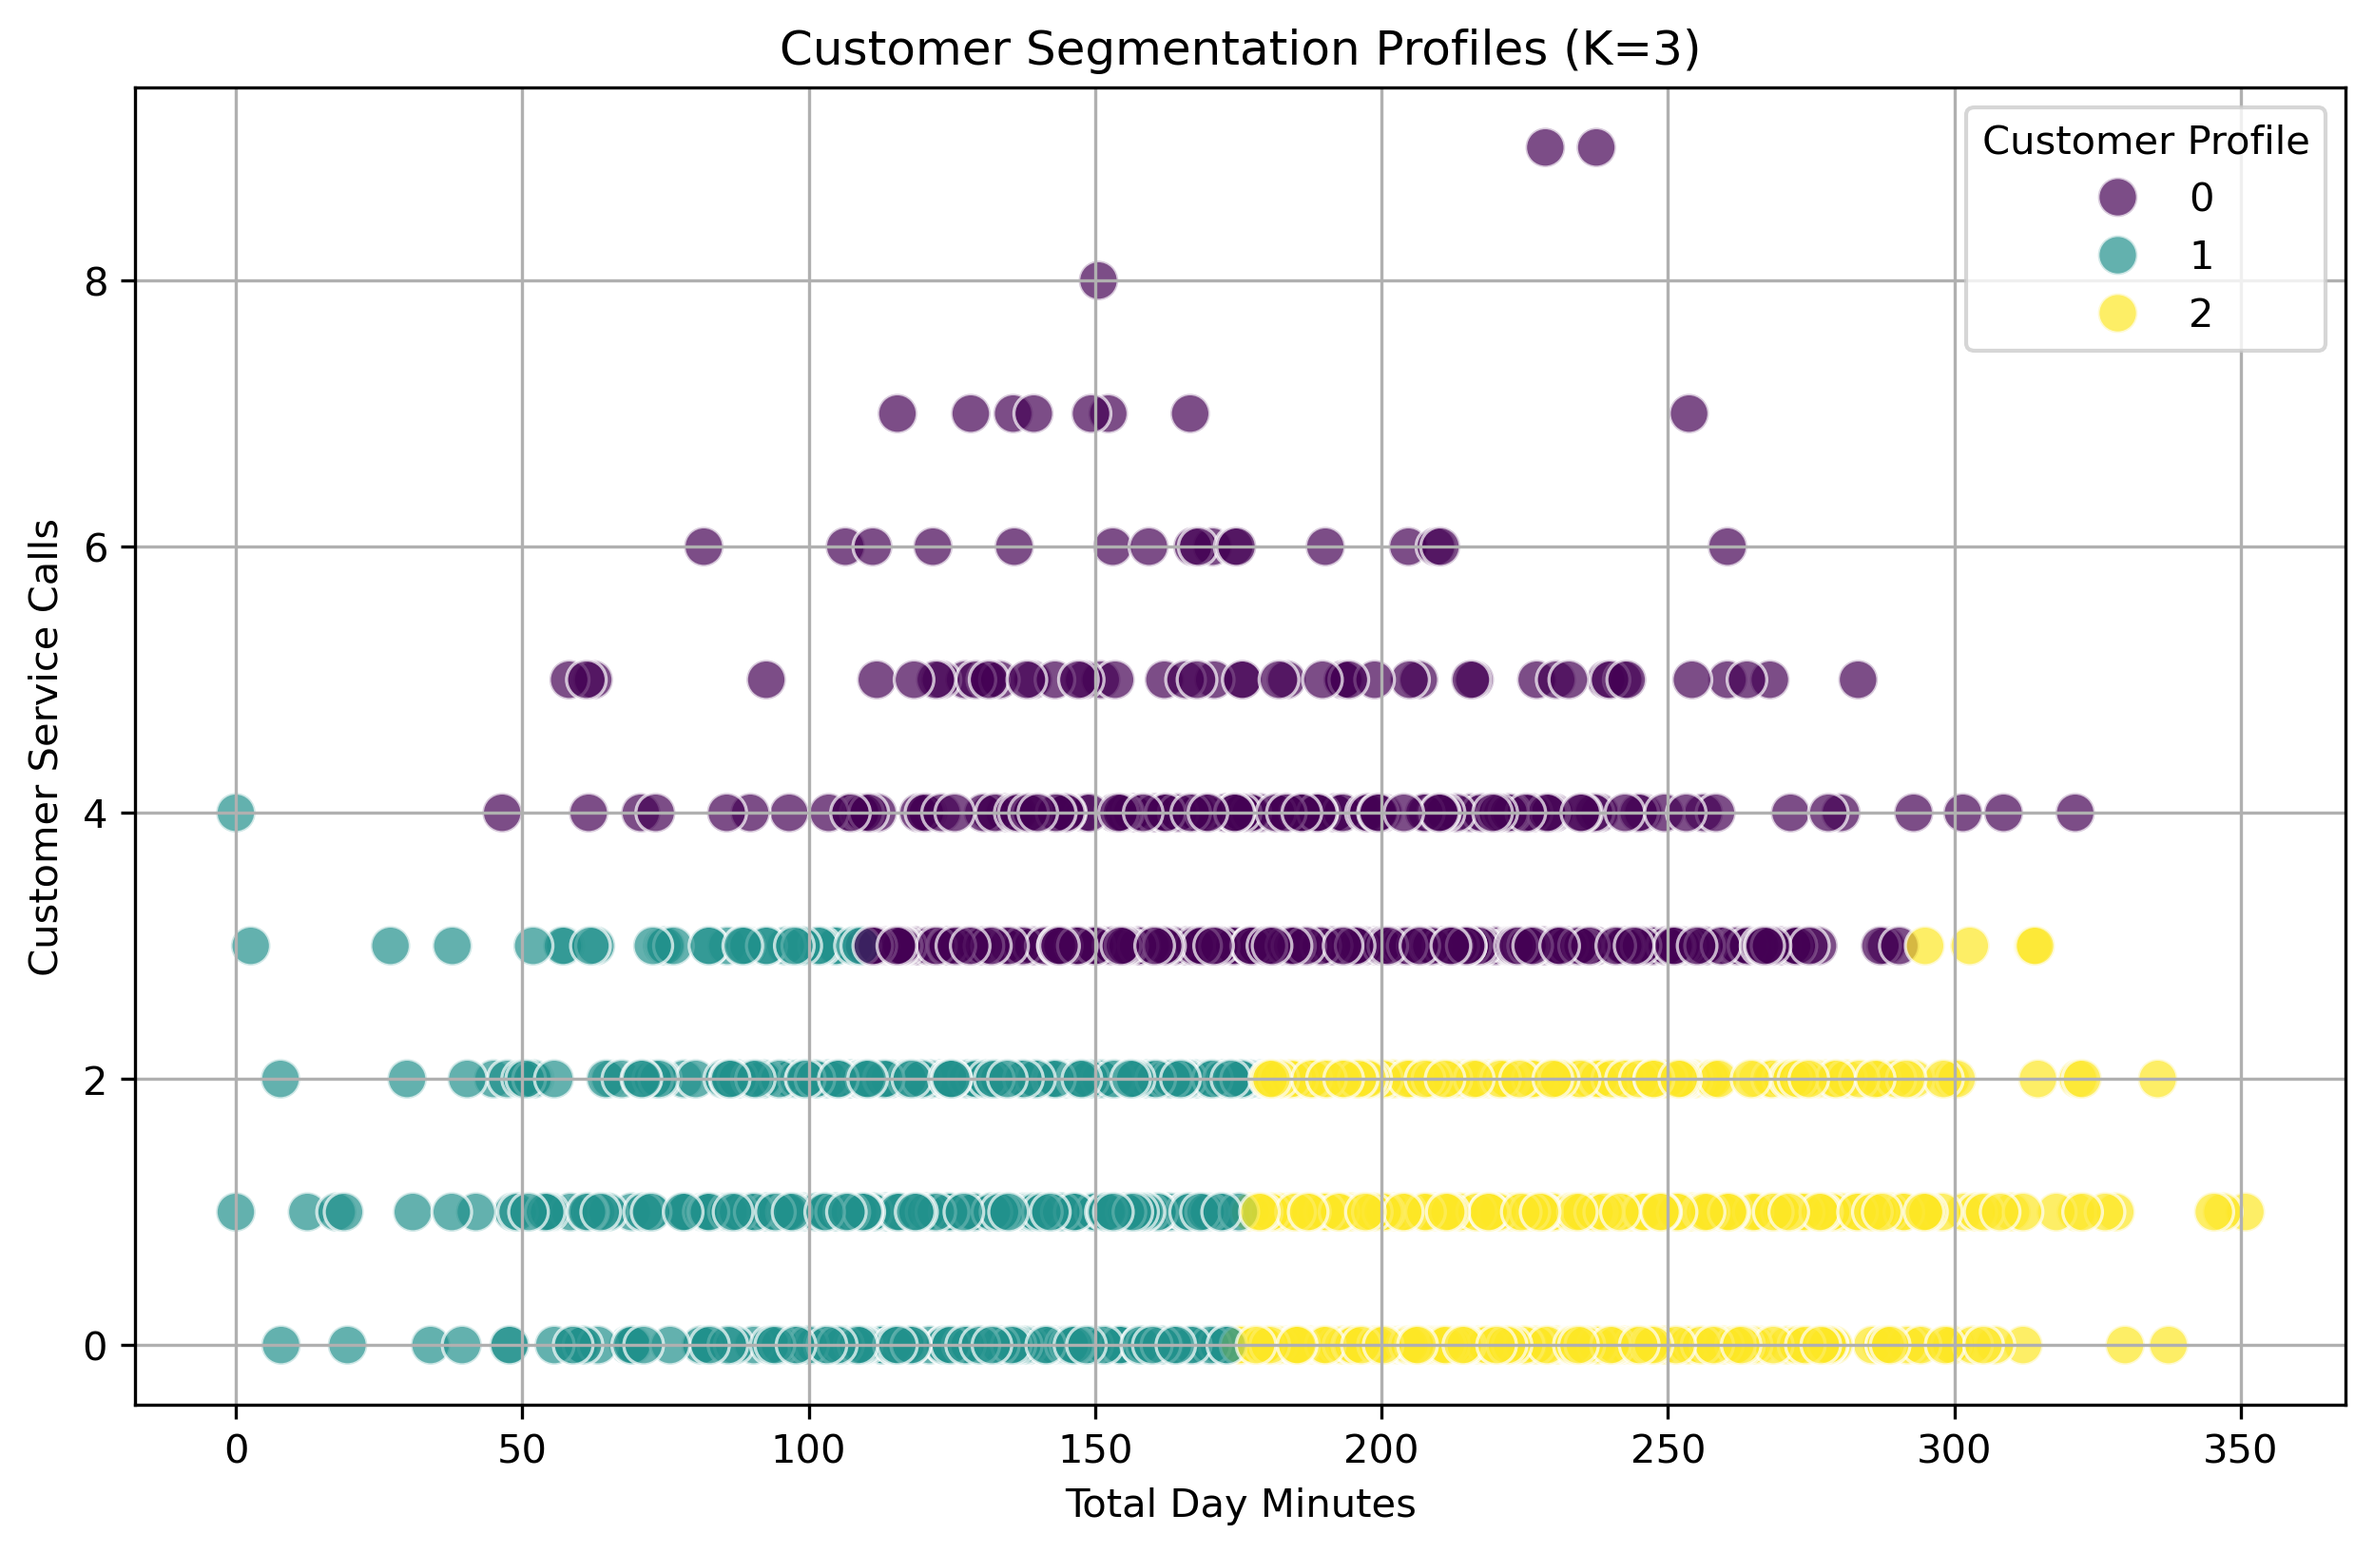
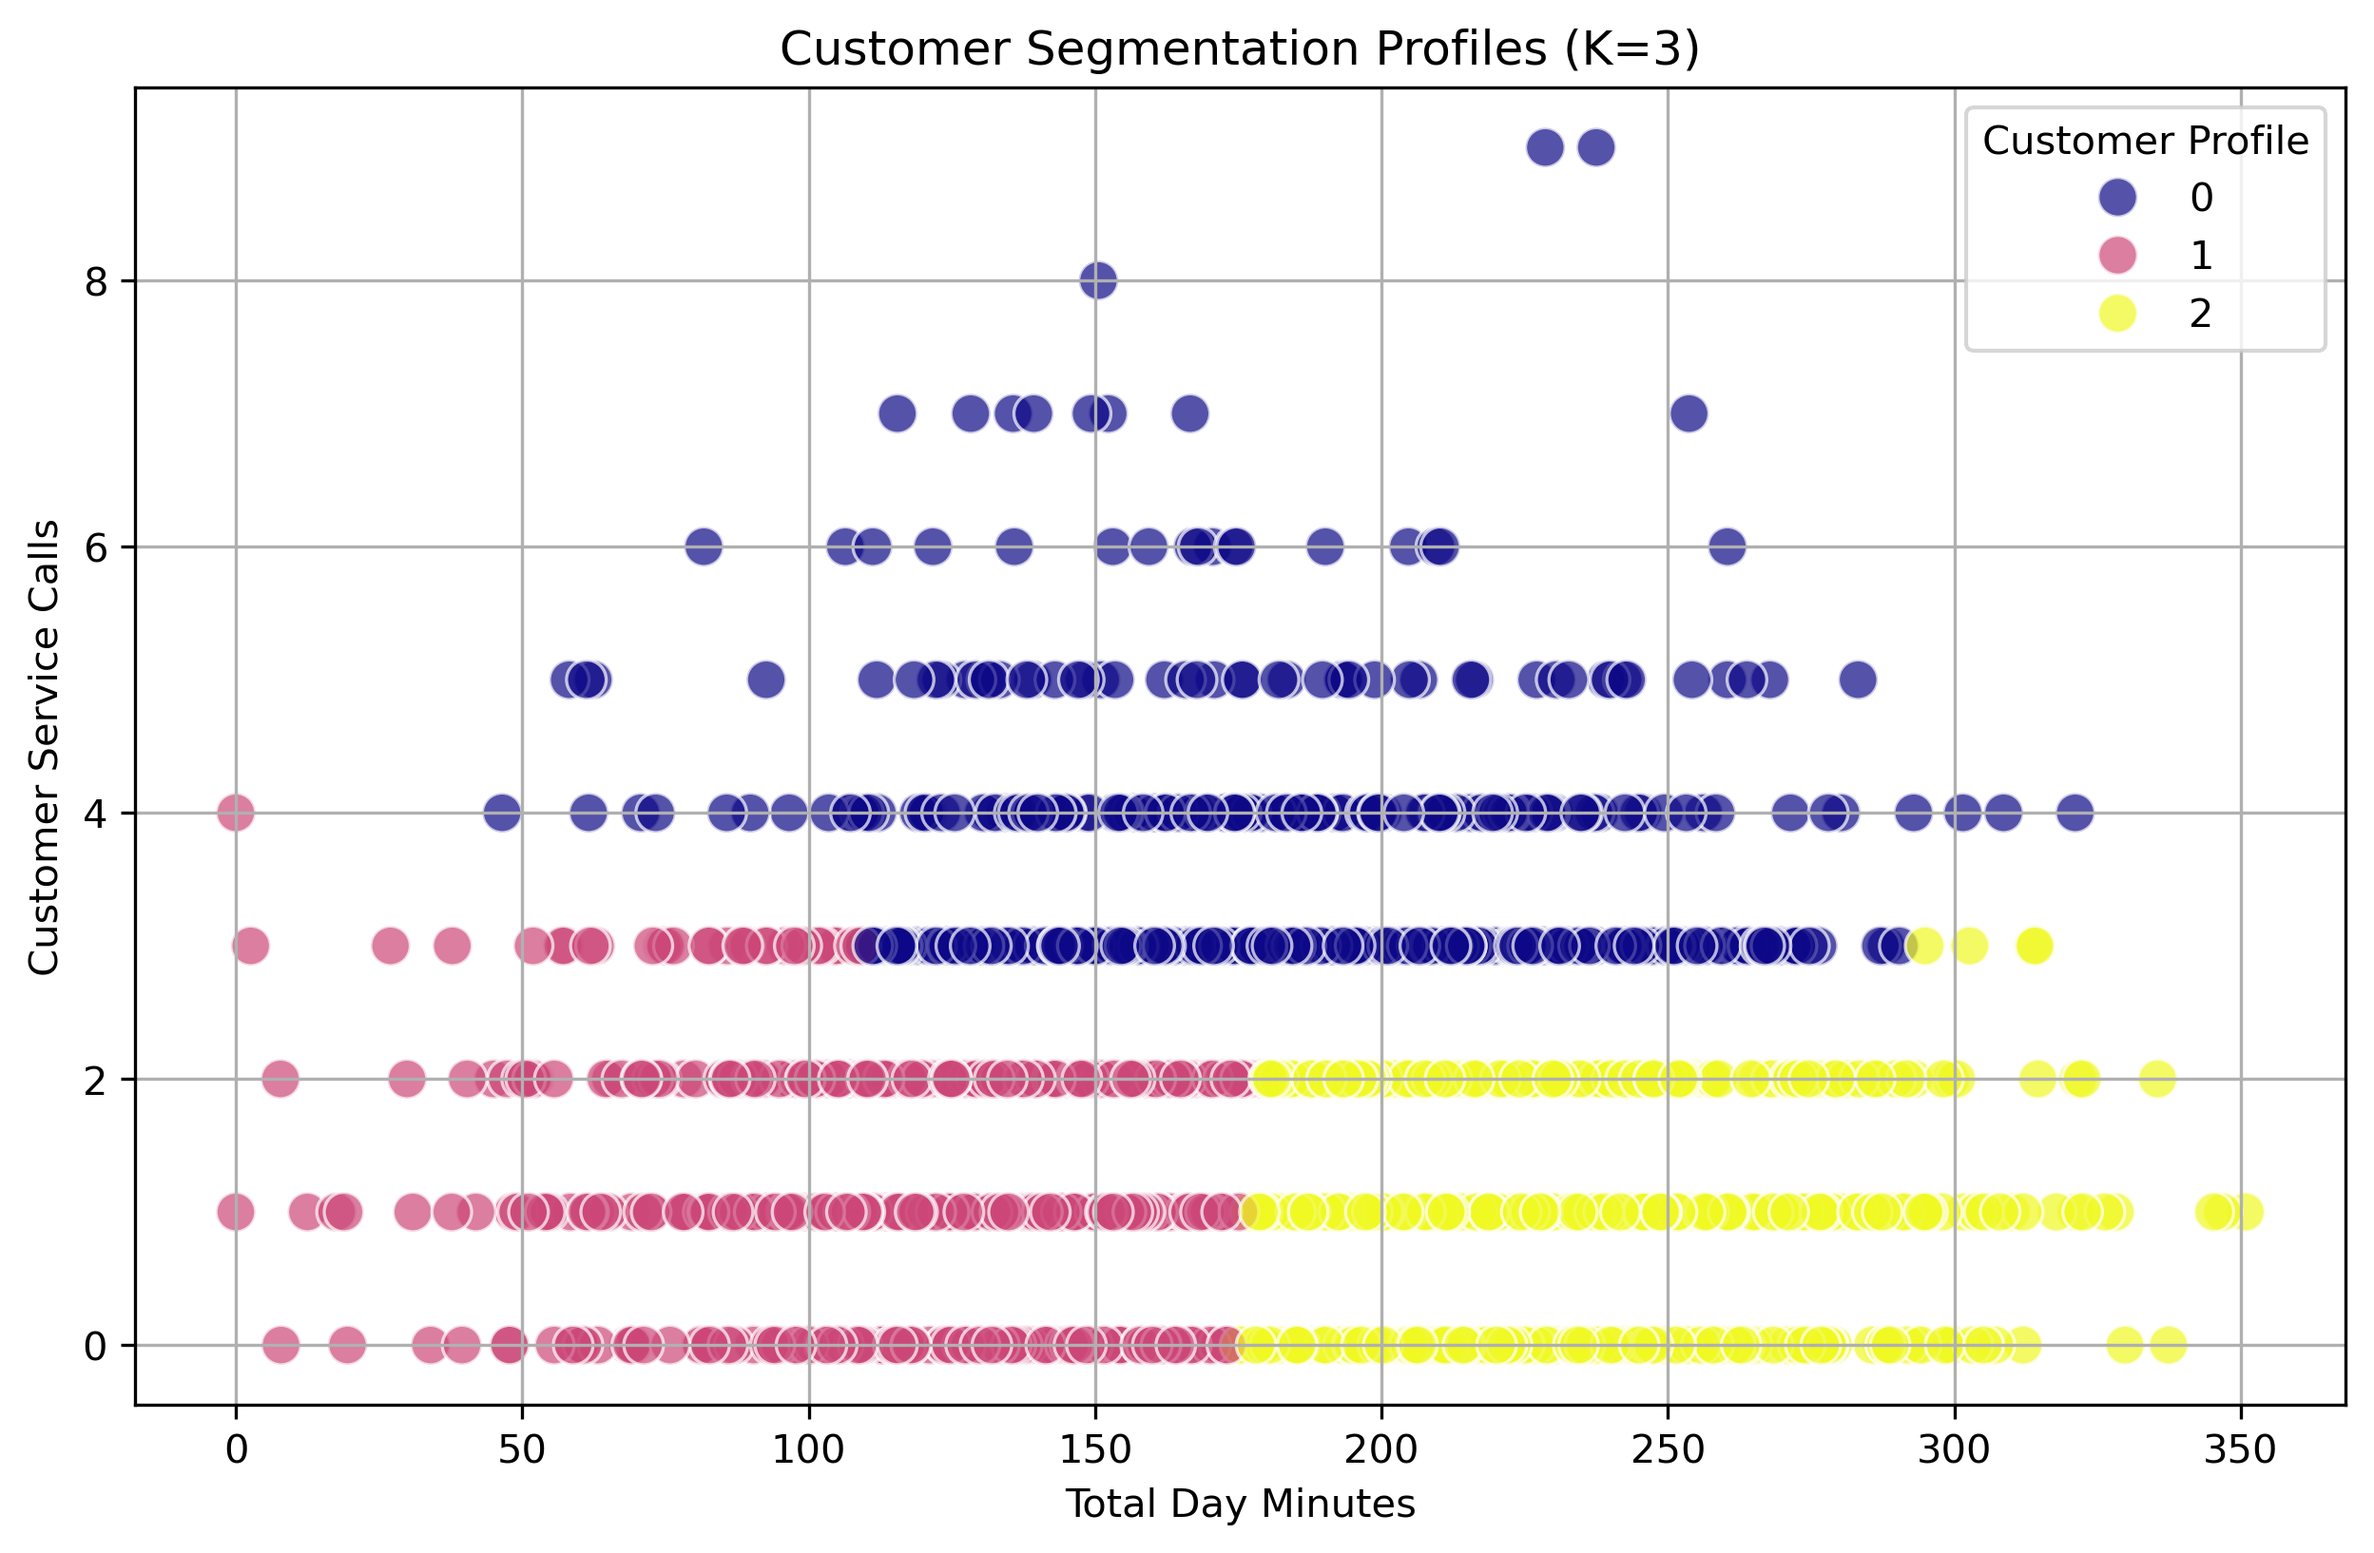
completed task 3

diff --git a/level 2/task 2.py b/level 2/task 2.py
@@ -25,7 +25,7 @@ sns.scatterplot(
     x='Total day minutes', 
     y='Customer service calls', 
     hue='Cluster', 
-    palette='viridis', 
+    palette='plasma', 
     data=churn_train, 
     s=100, 
     alpha=0.7 
